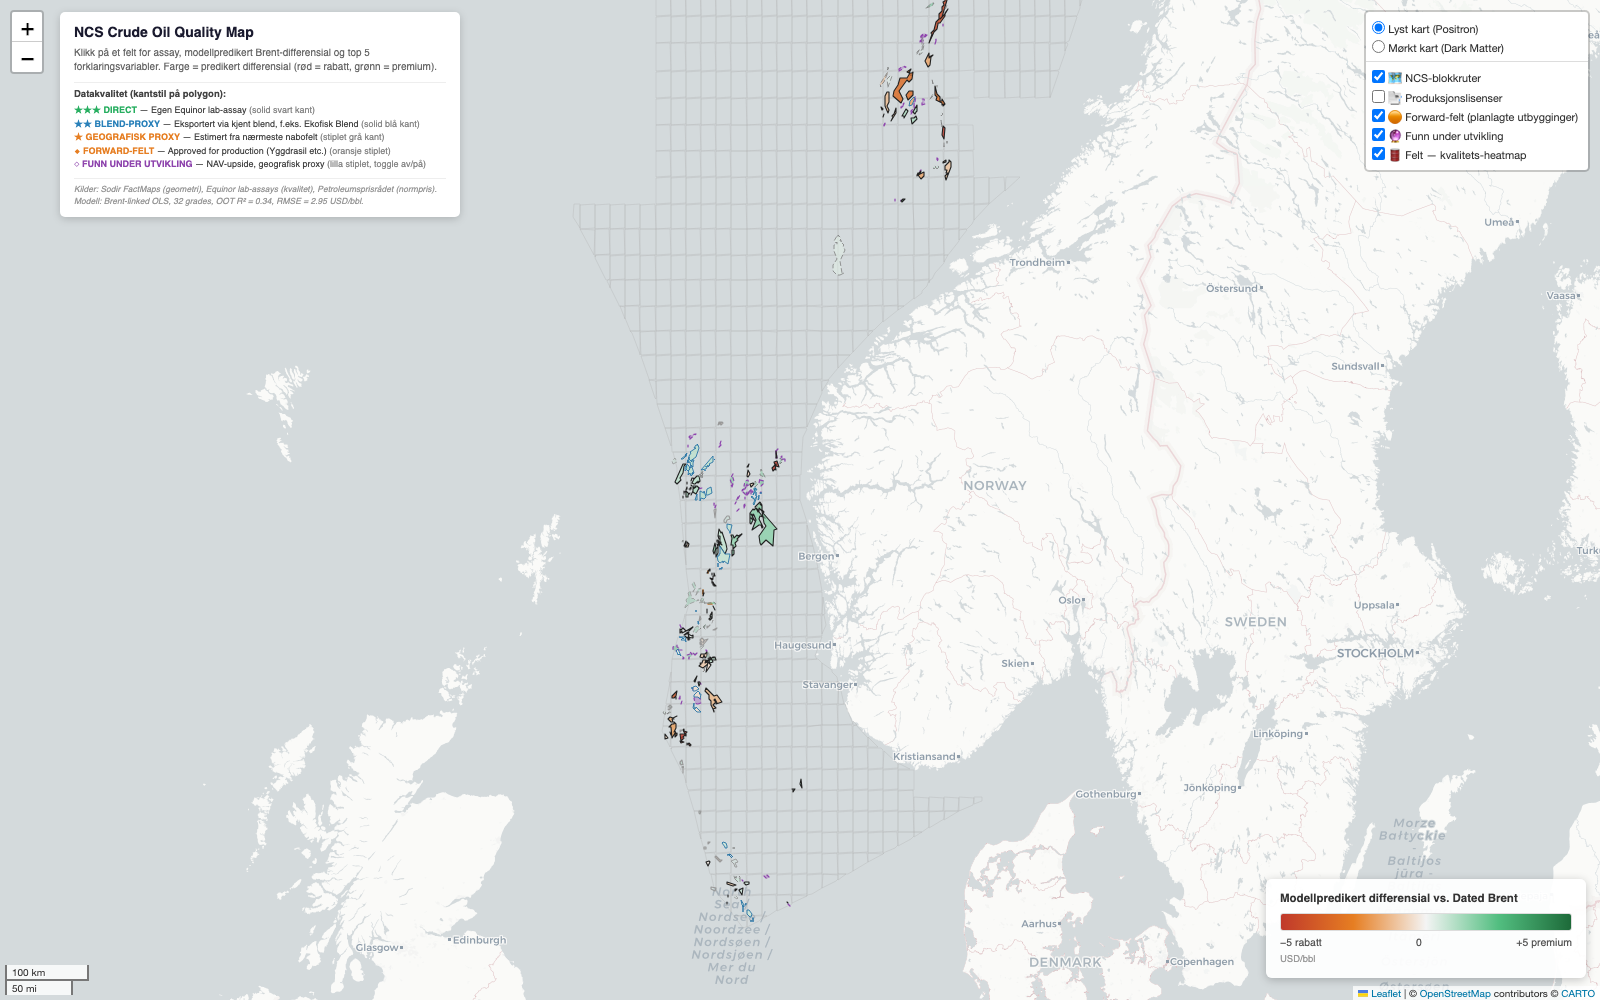
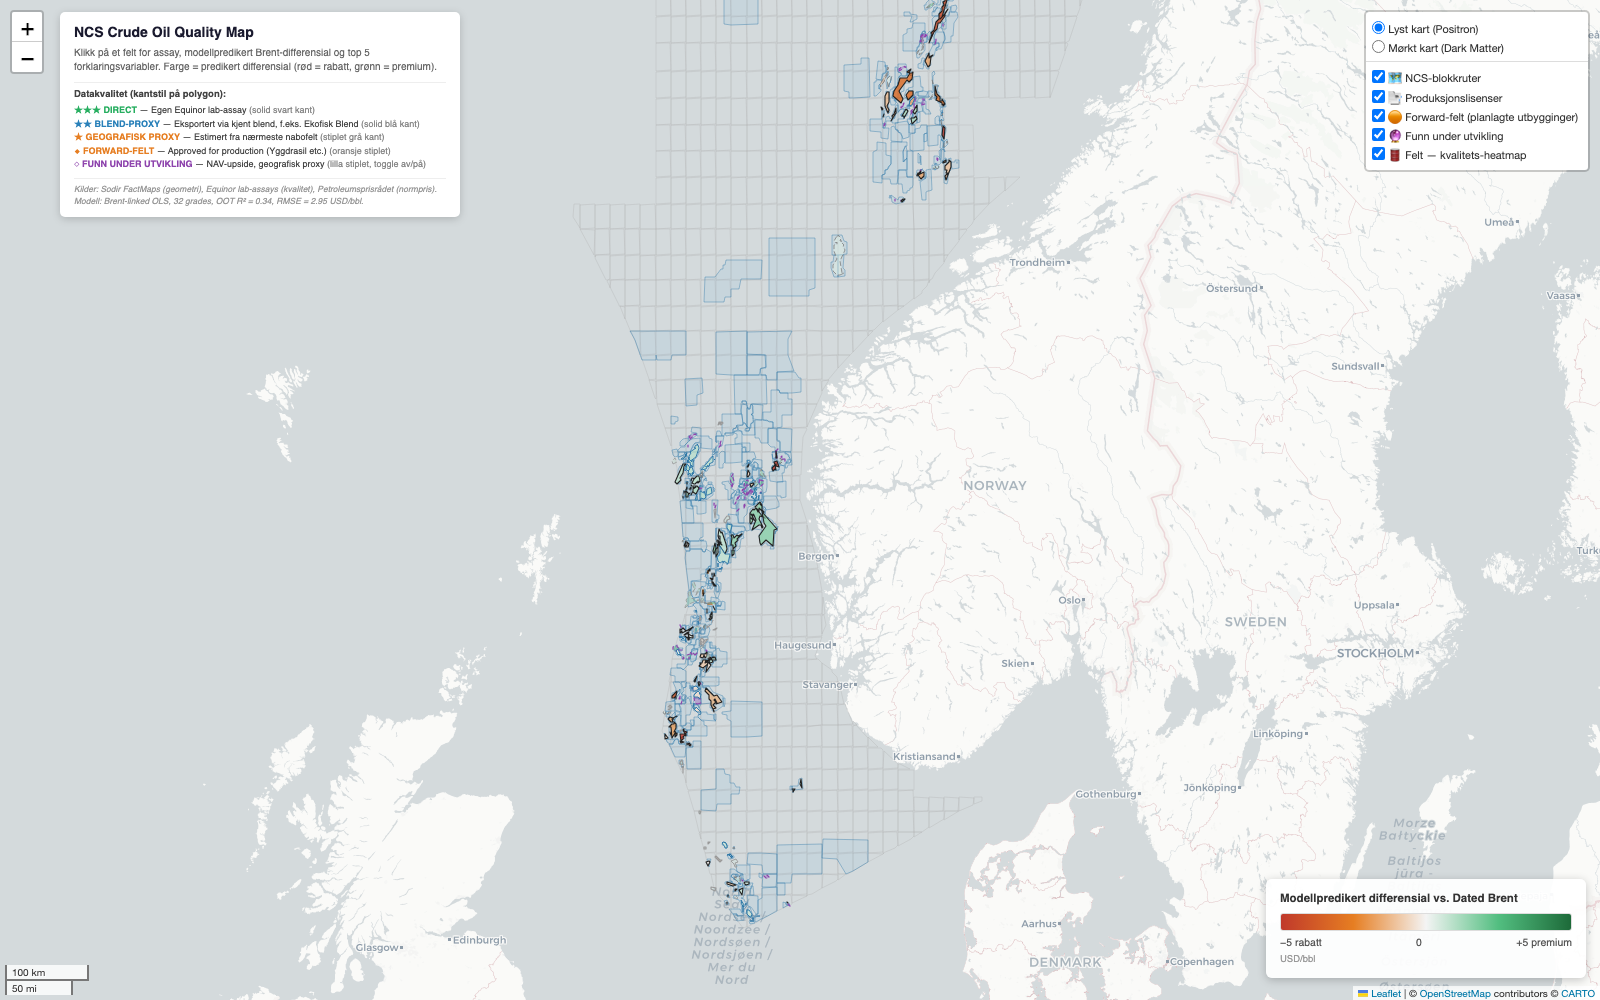
Map: show production licences by default, beneath fields and discoveries
Production licences are now active on load. They render in a dedicated
Leaflet pane (z-index 360) that sits below the fields and discoveries
(overlay pane, z-index 400), so clicks on fields and discoveries always
win and the licences never block them. The licences keep their hover
tooltip (licence name and operator).

Layer stacking, bottom to top: NCS blocks (non-interactive) < production
licences < forward fields, discoveries, producing fields.

diff --git a/src/4_fluid_and_map/49_interactive_ncs_map.py b/src/4_fluid_and_map/49_interactive_ncs_map.py
@@ -1255,12 +1255,17 @@ def main() -> None:
     ).add_to(blocks_layer)
     blocks_layer.add_to(fmap)
 
-    # ── BAKGRUNNSLAG 2: Lisensblokker (ikke-interaktivt) ────────────────────
-    licences_layer = folium.FeatureGroup(name="📑  Produksjonslisenser", show=False)
+    # ── BAKGRUNNSLAG 2: Produksjonslisenser ─────────────────────────────────
+    # Eget pane (z-index 360) mellom blokk-grid (350) og felt/funn (overlayPane
+    # 400). Lisensene beholder hover-tooltip, men ligger ALLTID under feltene og
+    # funnene, så et klikk på et felt eller funn vinner uansett av/på-rekkefølge.
+    # Huket av som standard når lenken åpnes.
+    CustomPane("licence_bg", z_index=360, pointer_events=True).add_to(fmap)
+    licences_layer = folium.FeatureGroup(name="📑  Produksjonslisenser", show=True)
     folium.GeoJson(
         licences_fc,
         style_function=style_licence,
-        # Tooltip ved hover (fanger ikke klikk på samme måte)
+        pane="licence_bg",      # under felt/funn → blokkerer ikke klikk
         tooltip=folium.GeoJsonTooltip(
             fields=["prlName", "cmpLongName"],
             aliases=["Lisens:", "Operatør:"],